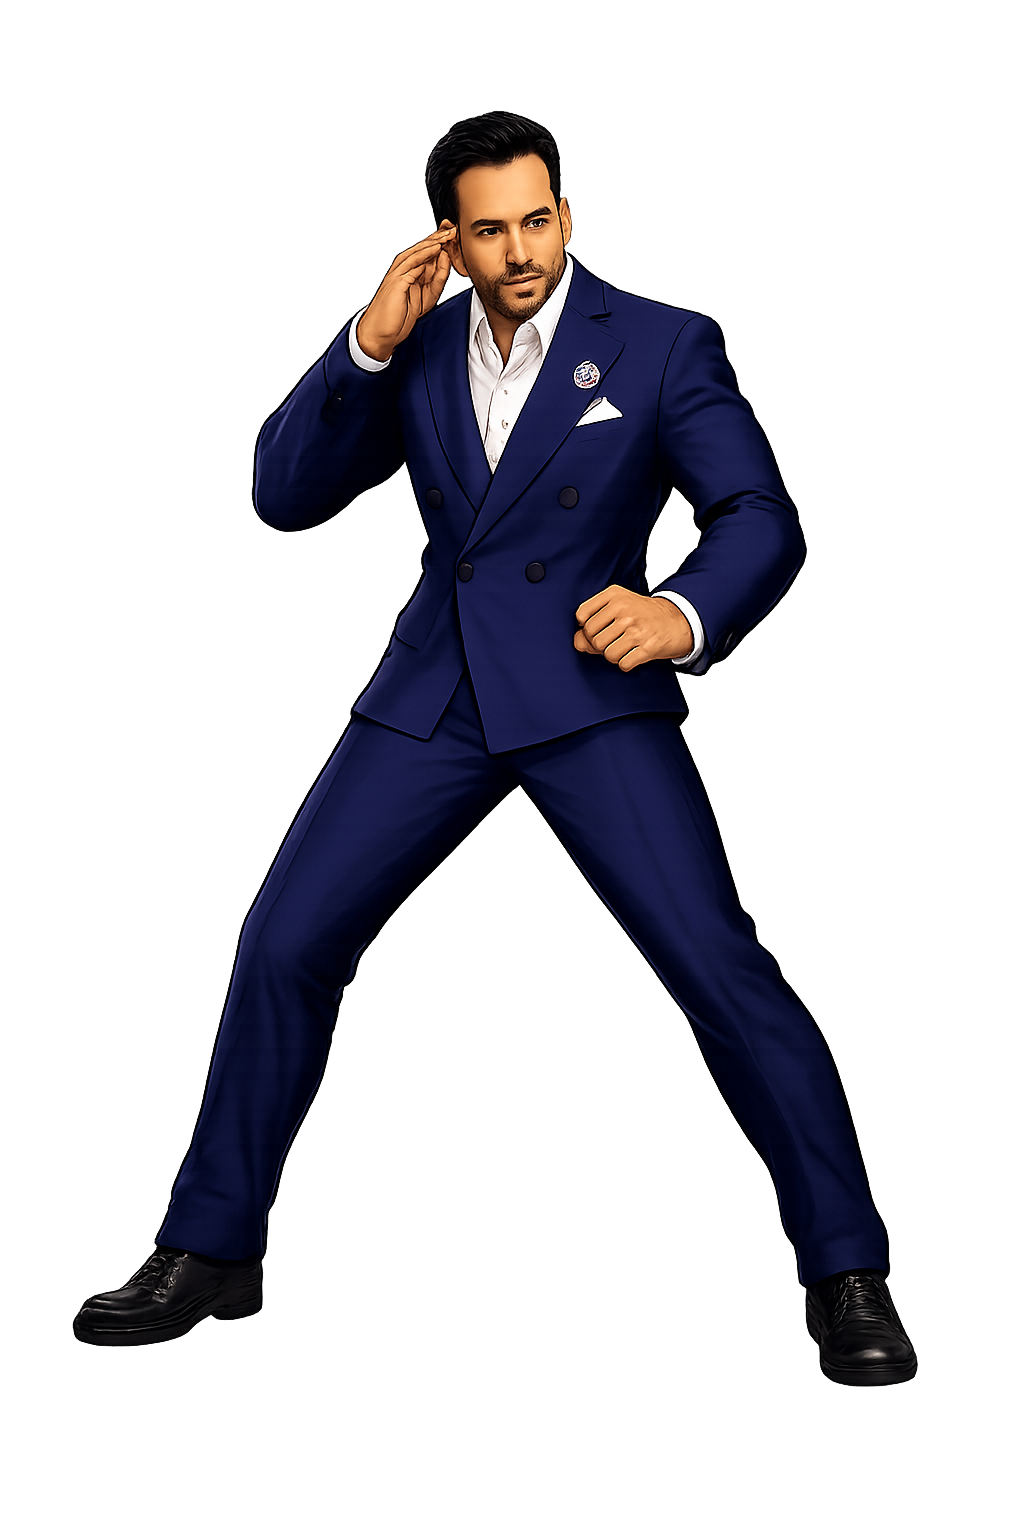
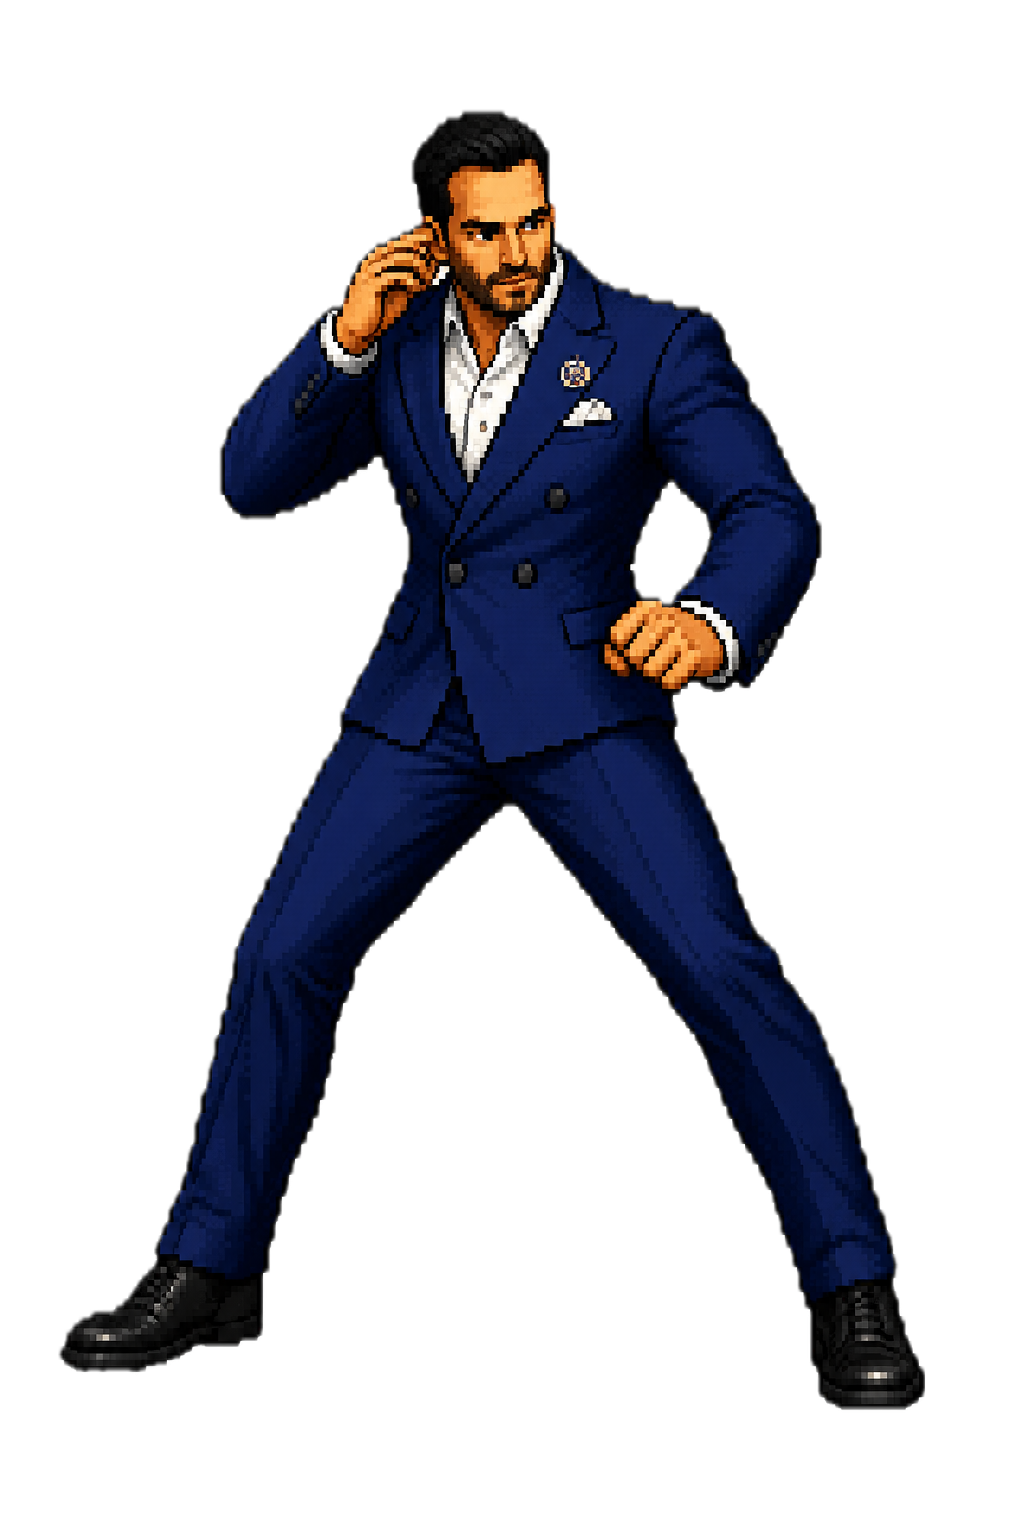
kof-electoral: animacion de PATADA con frames + puños de Ricardo + abelardo v2
- Patada usa frames propios (candidatos/fight/patada/<id>-der|izq.png) cuando
  existen: hoy abelardo, cepeda, ricardo; el resto usa pose base al patear.
- Ricardo ya tiene poses de puño (punos/ricardo-*).
- fight/abelardo.png reemplazado por la version v2.

diff --git a/kof-electoral.html b/kof-electoral.html
@@ -1235,14 +1235,16 @@
     im.src='kof-electoral/candidatos/fight/'+fd.id+'.png';
     return im;
   }
-  // Poses de puño (der/izq). Si no existen, naturalWidth=0 y se usa la pose base.
+  // Poses de golpe (der/izq). Si no existen, naturalWidth=0 y se usa la pose base.
   function fLoadPunch(fd, dir){ const im=new Image(); im.src='kof-electoral/candidatos/fight/punos/'+fd.id+'-'+dir+'.png'; return im; }
+  function fLoadKick(fd, dir){ const im=new Image(); im.src='kof-electoral/candidatos/fight/patada/'+fd.id+'-'+dir+'.png'; return im; }
   function mkF(fd, side, boss){
     const hp = boss?120:100;
     return { fd, side, boss:!!boss, x: side==='L'?F.W*0.30:F.W*0.70, y:0, vy:0, onGround:true,
       hp, maxHp:hp, hpShown:hp, facing: side==='L'?1:-1,
       atk:null, atkUntil:0, atkHit:false, cdUntil:0, stun:0, lean:0, blocking:false,
-      combo:0, lastHit:0, flashUntil:0, img:fLoadSprite(fd), punchR:fLoadPunch(fd,'der'), punchL:fLoadPunch(fd,'izq') };
+      combo:0, lastHit:0, flashUntil:0, img:fLoadSprite(fd),
+      punchR:fLoadPunch(fd,'der'), punchL:fLoadPunch(fd,'izq'), kickR:fLoadKick(fd,'der'), kickL:fLoadKick(fd,'izq') };
   }
   function setBars(){ if(fP) $('#fhp-l').style.width=Math.max(0,fP.hp/fP.maxHp*100)+'%'; if(fO) $('#fhp-r').style.width=Math.max(0,fO.hp/fO.maxHp*100)+'%'; }
   // capa roja de daño: baja con retraso hasta la vida real
@@ -1503,16 +1505,16 @@
   function drawShadow(c,ftr){ const gy=fGroundPx(), w=fwOf(ftr); c.save(); c.globalAlpha=.32; c.fillStyle='#000'; c.beginPath(); c.ellipse(ftr.x, gy-6, w*0.28, 15, 0, 0, Math.PI*2); c.fill(); c.restore(); }
   function drawFighter(c,ftr,now){
     const srcFace = ftr.fd.srcFace || 1;   // orientación natural del PNG base (1=mira derecha, -1=izquierda)
-    let img = ftr.img, flip = (ftr.facing!==srcFace), usingPunch=false;
-    if(ftr.atk==='punch'){
-      const pim = (ftr.facing>=0) ? ftr.punchR : ftr.punchL;   // der=golpe a la derecha, izq=a la izquierda (ya orientados)
-      if(pim && pim.complete && pim.naturalWidth){ img=pim; flip=false; usingPunch=true; }
+    let img = ftr.img, flip = (ftr.facing!==srcFace), usingFrame=false;
+    if(ftr.atk==='punch' || ftr.atk==='kick'){
+      const set = ftr.atk==='punch' ? (ftr.facing>=0?ftr.punchR:ftr.punchL) : (ftr.facing>=0?ftr.kickR:ftr.kickL);
+      if(set && set.complete && set.naturalWidth){ img=set; flip=false; usingFrame=true; }  // der/izq ya orientados
     }
     const h=fSpriteH(), gy=fGroundPx();
     const aspect = (img && img.naturalHeight) ? img.naturalWidth/img.naturalHeight : 0.667;
     const w = h*aspect;
-    const lean = ftr.stun>0 ? -ftr.facing*9 : (ftr.atk && !usingPunch ? ftr.facing*20*ftr.lean : 0);
-    const sc = (ftr.atk && !usingPunch)?1.03:1, dh=h*sc, dw=w*sc, cx=ftr.x+lean, top=gy-dh+ftr.y;
+    const lean = ftr.stun>0 ? -ftr.facing*9 : (ftr.atk && !usingFrame ? ftr.facing*20*ftr.lean : 0);
+    const sc = (ftr.atk && !usingFrame)?1.03:1, dh=h*sc, dw=w*sc, cx=ftr.x+lean, top=gy-dh+ftr.y;
     const flashing = ftr.flashUntil && now < ftr.flashUntil && (Math.floor(now/45)%2===0);
     c.save();
     if(flip){ c.translate(cx,0); c.scale(-1,1); c.translate(-cx,0); }